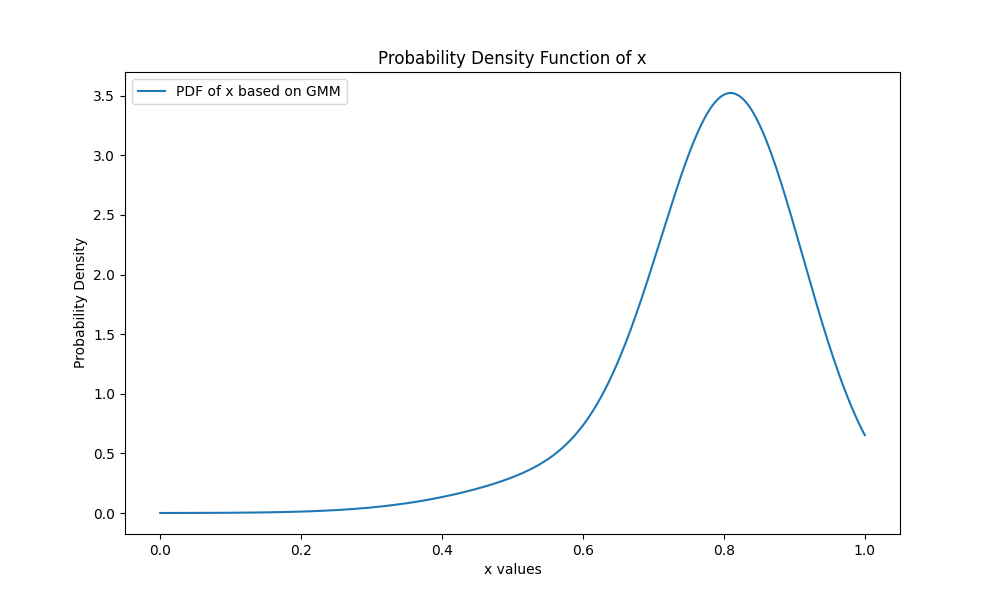
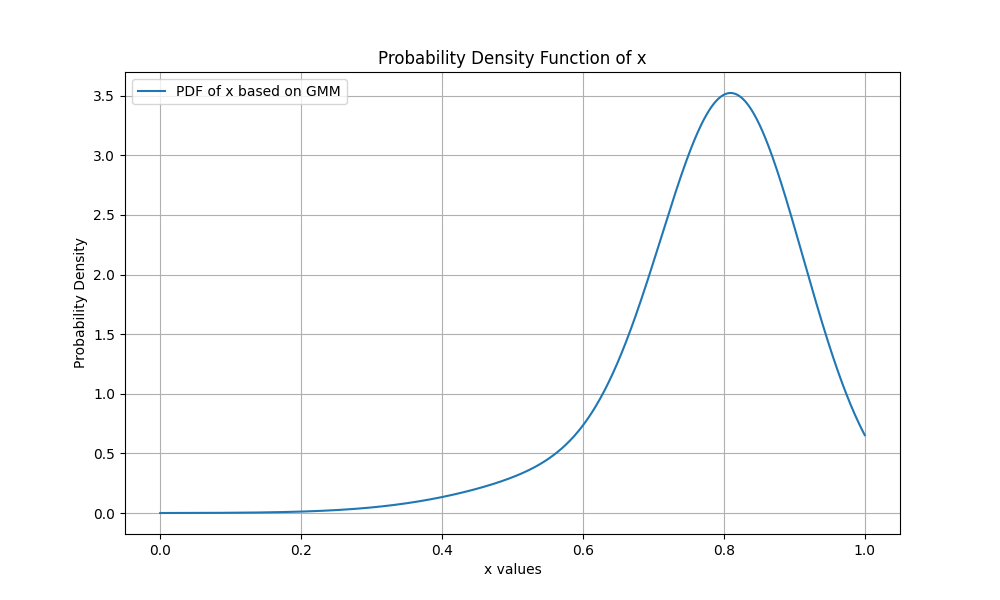
simulation

diff --git a/deltaS.py b/deltaS.py
@@ -1,0 +1,58 @@
+from sklearn.mixture import GaussianMixture
+import numpy as np
+import matplotlib.pyplot as plt
+from scipy.stats import norm, gaussian_kde
+
+# Load the normalized tree density data
+data_path = 'dataset/normalized_tree_density.npy'
+density_data = np.load(data_path)
+
+# Reshape the data for GaussianMixture model
+density_data = density_data.reshape(-1, 1)
+
+# Fit a Gaussian Mixture Model with two components to the density data
+gmm_density = GaussianMixture(n_components=2, random_state=0)
+gmm_density.fit(density_data)
+
+# Assuming norm_size is the mean of the density_data for demonstration purposes
+norm_size = np.mean(density_data)
+var_size = np.var(density_data)
+
+# Generate samples from the 'size' distribution
+size_samples = np.random.normal(norm_size, np.sqrt(var_size), 10000)
+
+# Generate samples from the 'density' distribution using the GMM
+density_samples = gmm_density.sample(10000)[0].flatten()
+
+# Generate samples for 'X' based on the conditional distributions
+x_given_size_samples = np.random.normal(density_samples, density_samples / 4)
+x_given_density_samples = np.random.normal(size_samples, size_samples / 4)
+
+# The final samples for 'X' are a mixture of 'x_given_size_samples' and 'x_given_density_samples'
+x_samples = (x_given_size_samples + x_given_density_samples) / 2
+
+# Estimate the PDF of 'X' using the samples
+plt.figure(figsize=(10, 6))
+plt.hist(x_samples, bins=100, density=True, alpha=0.6, color='g')
+plt.title('Estimated PDF of X using Monte Carlo Simulation')
+plt.xlabel('X values')
+plt.ylabel('Probability Density')
+plt.grid(True)
+plt.show()
+
+# Calculate the KDE for 'X' samples
+x_kde = gaussian_kde(x_samples)
+
+# Plot the KDE
+x_values = np.linspace(min(x_samples), max(x_samples), 1000)
+pdf_x = x_kde(x_values)
+path = 'resultset/deltaS.jpg'
+plt.figure(figsize=(10, 6))
+plt.plot(x_values, pdf_x, label='KDE of X')
+plt.title('KDE Estimated PDF of X')
+plt.xlabel('X values')
+plt.ylabel('Probability Density')
+plt.legend()
+plt.grid(True)
+plt.savefig(path)
+plt.show()

diff --git a/evaluate.py b/evaluate.py
@@ -1,10 +1,48 @@
 import math
 from tree import Tree
-def delta_size(map,x,y):
-    pass
+import deltaScal as ds
+import joblib
+from tqdm import tqdm
+import copy
 
+gmm_model_path = 'dataset/gmm_density_model.pkl'
+gmm_density = joblib.load(gmm_model_path)
+
+def deltas(map,x,y,width,height):
+    sum = 0
+    squares = 0
+    if y > 0:
+        squares += 1
+        sum += map[x][y].density
+    if x < height:
+        squares += 1
+        sum == map[x+1][y].density
+    if x > 0:
+        squares += 1
+        sum += map[x-1][y].density
+    if y < width:
+        squares += 1
+        sum += map[x][y+1].density
+    average = sum / squares
+    delta = ds.calculate_deltaS(map[x][y].size,average,gmm_density)
+    return delta
+def new_density(map,x,y,delta):
+    current = map[x][y].density
+    new = (1-current)*(delta ** 10) + current
+    return new
 def change_age(map,x,y):
-    map[x][y].age += 1
-    
-def simulation(map,duration):
-    pass
+    age = map[x][y].age
+    return age+1
+def simulation(map,duration,width,height):
+    map_copy = copy.deepcopy(map)
+    for year in tqdm(range(duration)):
+        for x in range(height):
+            for y in range(width):
+                delta = deltas(map,x,y,width,height)
+                if delta < 0:
+                    delta = 0
+                map_copy[x][y].size = map[x][y].size * (1 + delta**15)
+                map_copy[x][y].density = new_density(map,x,y,delta)
+                map_copy[x][y].age = change_age(map,x,y)
+        map = map_copy
+    return map

diff --git a/getdistribution.py b/getdistribution.py
@@ -2,9 +2,10 @@ from sklearn.mixture import GaussianMixture
 import numpy as np
 import matplotlib.pyplot as plt
 from scipy.stats import norm
+import joblib
 
 # Load the normalized tree density data
-data_path = 'dataset/normalized_tree_density.npy'
+data_path = 'dataset/normalized_tree_density.npy'  # Use the correct path where the .npy file is located
 data = np.load(data_path)
 
 # Reshape the data for GaussianMixture model
@@ -34,5 +35,13 @@ plt.title('Probability Density Function of x')
 plt.xlabel('x values')
 plt.ylabel('Probability Density')
 plt.legend()
-path = 'resultset/distribution.png'
-plt.savefig(path)
+plt.grid(True)
+
+# Save the plot
+plot_path = 'resultset/distribution.png'  # Use the correct path to save the plot
+plt.savefig(plot_path)
+plt.close()
+
+# Save the GMM model
+gmm_model_path = 'dataset/gmm_density_model.pkl'  # Use the correct path to save the model
+joblib.dump(gmm, gmm_model_path)  # Save the 'gmm' object, not 'gmm_density'

diff --git a/deltaScal.py b/deltaScal.py
@@ -1,0 +1,29 @@
+import joblib
+from scipy.stats import norm
+
+gmm_model_path = 'dataset/gmm_density_model.pkl'
+gmm_density = joblib.load(gmm_model_path)
+
+new_size = 0.5  
+new_density = 0.7  
+def relu(x):
+    if x < 0:
+        return 0
+    else:
+        return x
+def calculate_deltaS(size, density, gmm_model):
+    size = relu(size)
+    density = relu(density)
+    weights = gmm_model.weights_
+    means = gmm_model.means_.flatten()
+    covariances = gmm_model.covariances_.flatten()
+    if size < 0:
+        print("size:",size)
+    x_given_size = relu(norm(loc=density, scale=density/4).rvs())
+    x_given_density = relu(norm(loc=size, scale=size/4).rvs())
+
+    deltaS = (x_given_size + x_given_density) / 2
+    return deltaS
+
+# deltaS = calculate_deltaS(new_size, new_density, gmm_density)
+# print(deltaS)

diff --git a/main.py b/main.py
@@ -5,8 +5,16 @@ import evaluate
 
 #初始化地图，对于亚马逊森林
 density_array = np.load('dataset/normalized_tree_density.npy')
-forest = [[Tree(0,0,0,0) for _ in range(density_array.shape[0])] for _ in range(density_array.shape[1])]
+width = density_array.shape[1]
+#print(density_array.shape) 600 * 720
+height = density_array.shape[0]
+forest = [[None for _ in range(density_array.shape[1])] for _ in range(density_array.shape[0])]
 alpha = 1.5
 norm_size = 10
 norm_age = 300
 map.init_map(density_array,forest,norm_size,norm_age,alpha)
+# print("Done!")
+
+year = 100
+new_map = evaluate.simulation(forest,year,width,height)
+print("Done!")
